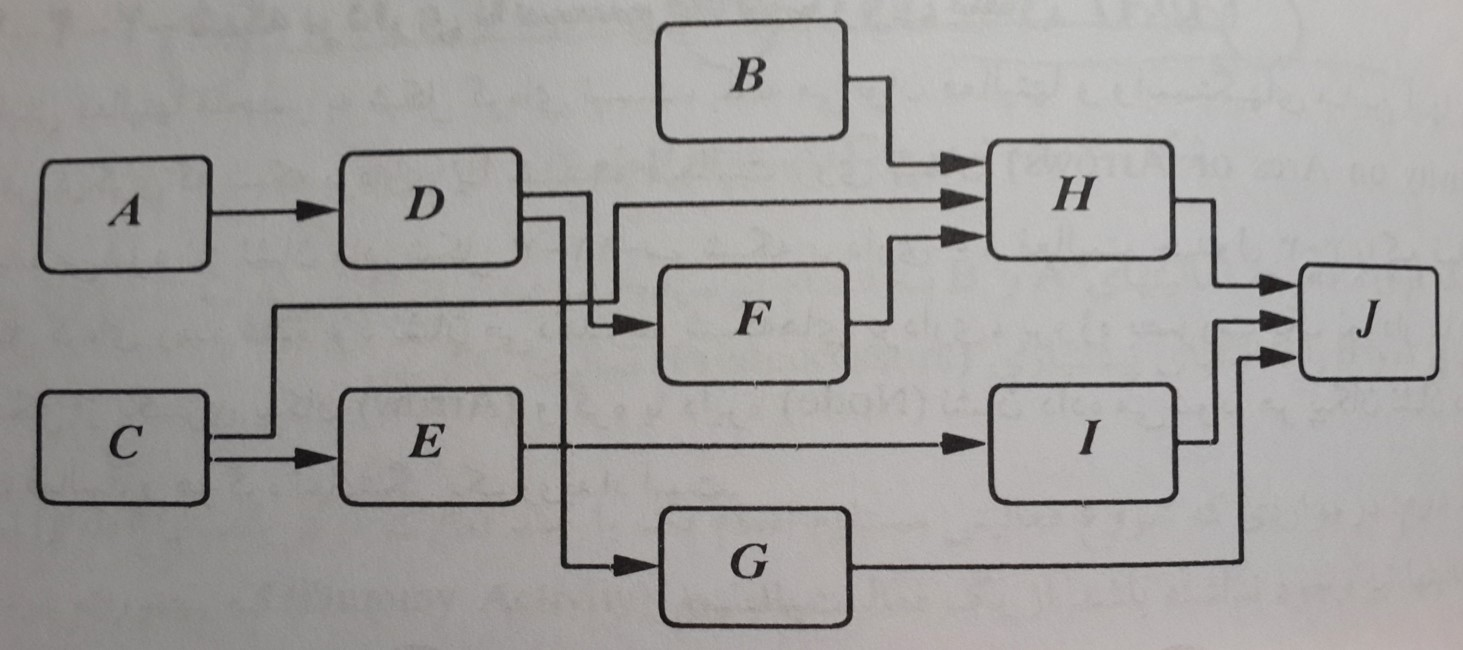
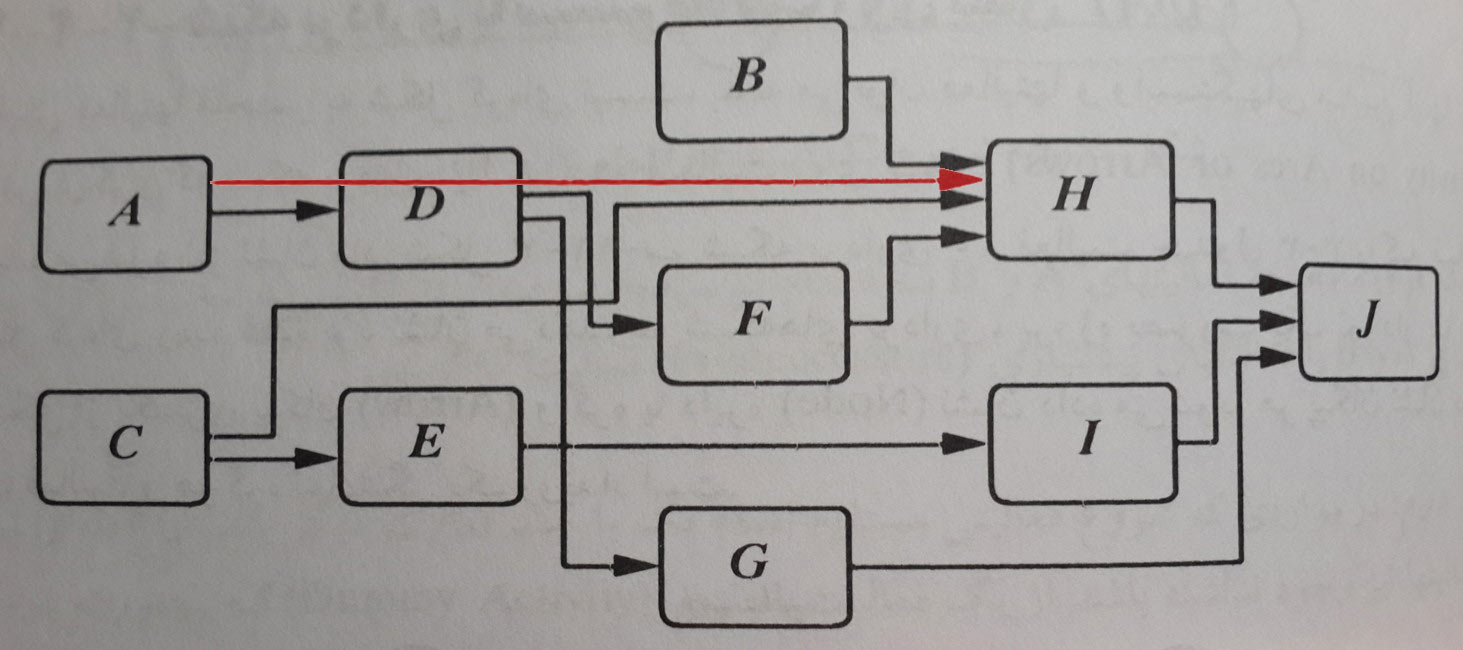
start ctrlprj/s4

Changed region(s): [[0.1538, 0.2462, 0.6767, 0.3077]]

diff --git a/prjctrl/part4.md b/prjctrl/part4.md
@@ -6,3 +6,24 @@
 
 ![Paper_4](/prjctrl/images/p4.jpg)
 
+بین گره 3 و 6 یک فعالیت مجازی میکشیم. فعالیت مجازی فقط نشاندهنده وابستگی میباشد و هیچ کاری انجام نمیشود.
+
+مثال) A و B پیشنیاز C و B پیشنیاز D.
+
+![Paper_5](/prjctrl/images/p5.jpg)
+
+مثال) شبکه AOA مثال خرید روزنامه (جدول زیر) را بکشید.
+
+![Slide_9-2](/prjctrl/images/s09-2.jpg)
+
+پاسخ:
+
+![Paper_6](/prjctrl/images/p6.jpg)
+
+تمرین) A و B پیشنیاز C و نیز B و D پیشنیاز E.
+
+مثال) شبکه AOA جدول زیر را بکشید.
+
+پاسخ:
+
+

diff --git a/prjctrl/part3.md b/prjctrl/part3.md
@@ -41,7 +41,7 @@
 
 ![Slide_13-2](/prjctrl/images/s13-2.jpg)
 
-همانطور که دیده میشود چون در مسیر {} پیشنیازی A برای H نشان داده شده است، نیازی به رسم بردار قرمز رنگ نمیباشد.
+همانطور که دیده میشود چون در مسیر {A-D , F} پیشنیازی A برای H نشان داده شده است، نیازی به رسم بردار قرمز رنگ نمیباشد.
 
 ![Slide_14](/prjctrl/images/s14.jpg)
 

diff --git a/SUMMARY.md b/SUMMARY.md
@@ -7,6 +7,9 @@
     * [جلسه اول](prjctrl/part1.md)
     * [جلسه دوم](prjctrl/part2.md)
     * [جلسه سوم](prjctrl/part3.md)
+    * [جلسه چهارم](prjctrl/part4.md)
+    * [جلسه پنجم](prjctrl/part5.md)
+    * [جلسه ششم](prjctrl/part6.md)
 * [طراحی الگوریتم](algorithm/README.md)
     * [مرتبه زمانی](algorithm/part1.md)
     * [تقسیم و حل](algorithm/part2.md)

diff --git a/prjctrl/README.md b/prjctrl/README.md
@@ -4,6 +4,10 @@
 
 1. [جلسه اول](part1.html)
 2. [جلسه دوم](part2.html)
+3. [جلسه سوم](part3.html)
+4. [جلسه چهارم](part4.html)
+5. [جلسه پنجم](part5.html)
+6. [جلسه ششم](part6.html)
 
 ### ارزشیابی
 
